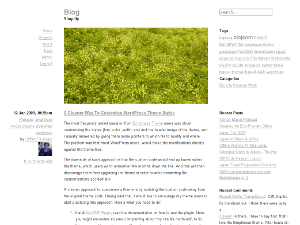
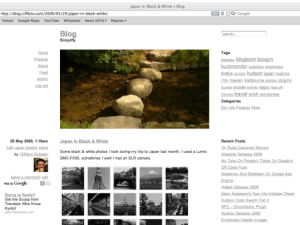
Fixed header position problem on IE6. Updated screenshot with latest header. Bumped version up to 1.3.4 .
git-svn-id: http://bitpress.googlecode.com/svn/trunk@179 88037229-fb4d-0410-9201-6f9a1f84ae13

diff --git a/emptiness/src/main/resources/styles/style.css b/emptiness/src/main/resources/styles/style.css
@@ -2,7 +2,7 @@
 Theme Name: Emptiness
 Theme URI: http://code.google.com/p/bitpress/wiki/Emptiness
 Description: A minimalist theme with a white background, containing mostly texts with a header image. Simple and clean, with very lightweight HTML and CSS.
-Version: 1.3.3
+Version: 1.3.4
 Author: Cliffano Subagio
 Author URI: http://blog.cliffano.com
 Tags: white, light, three-columns, fixed-width, custom-header, right-sidebar, microformats 
@@ -35,8 +35,7 @@ div#header div.main h1 {
     margin: 0;
 }
 div#bodyfooter {
-    position: relative;
-    top: 350px;
+    margin-top: 350px;
 }
 div#body {
     clear: both;

diff --git a/emptiness/src/main/php/footer.php b/emptiness/src/main/php/footer.php
@@ -12,6 +12,7 @@
               &nbsp;
             </div>
           </div>
+          <br style="clear: both;"/>
         </div>
       </div>
       <div id="header">
@@ -68,6 +69,7 @@
               endif;
             ?>
           </div>
+          <br style="clear: both;"/>
         </div>
       </div>
     </div>

diff --git a/emptiness/src/main/php/index.php b/emptiness/src/main/php/index.php
@@ -55,5 +55,6 @@
             <?php endif; ?>
           </div>
           <?php get_sidebar(); ?>
+          <br style="clear: both;"/>
         </div>
         <?php get_footer(); ?>
